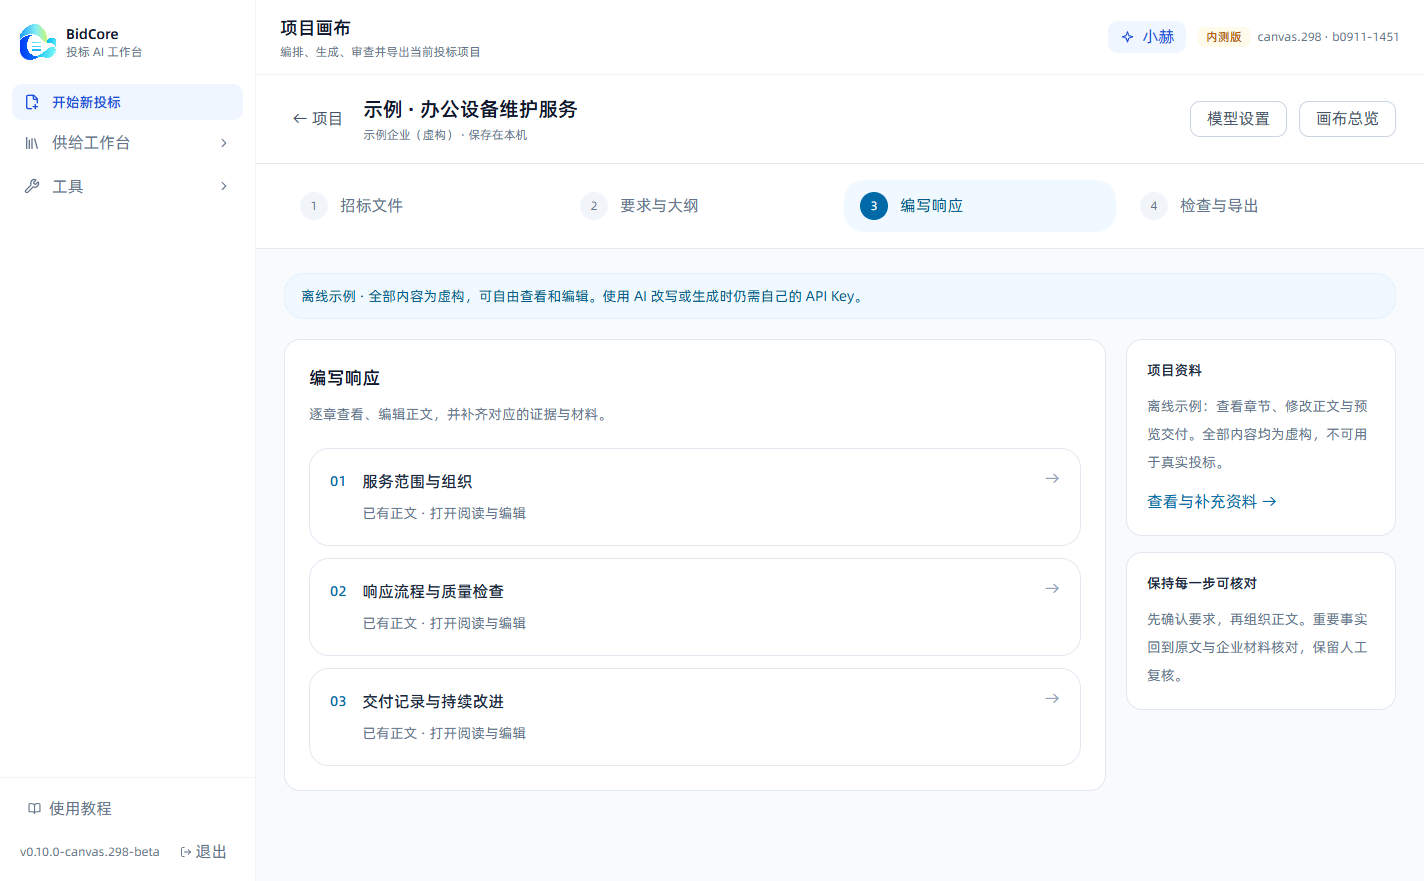
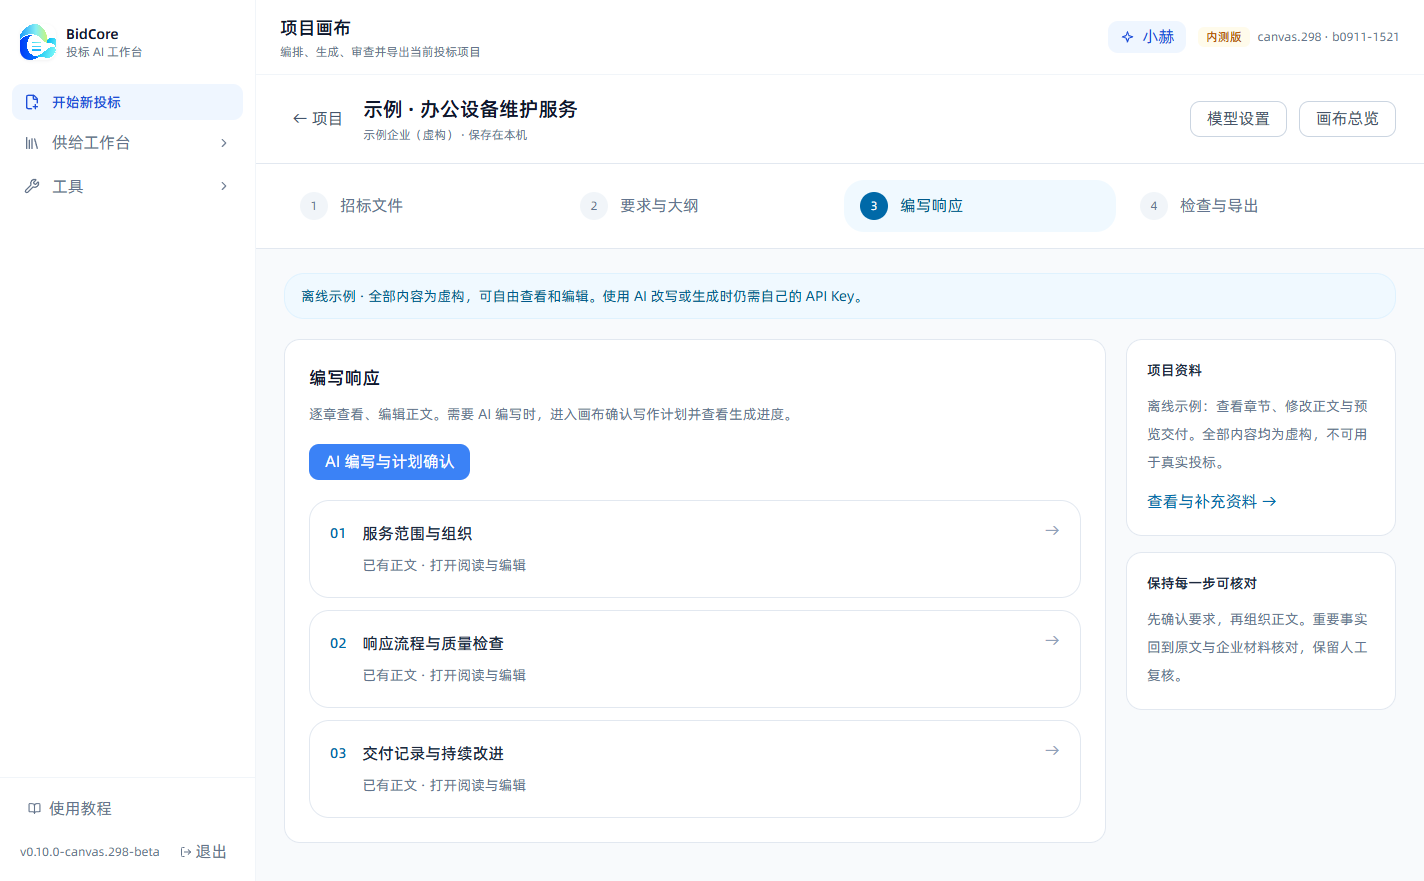
Document draft-only examples and writing workflow

Changed region(s): [[0.2163, 0.4597, 0.5562, 0.9194]]

diff --git a/docs/getting-started.md b/docs/getting-started.md
@@ -4,7 +4,7 @@
 
 ## 第一次使用
 
-想先了解界面，可以在首页打开“离线示例”，直接查看章节和编辑正文。示例不调用 AI，不需要 API Key；内容均为虚构，不能直接用于真实投标。
+想先了解界面，可以在首页打开“离线示例”，直接查看章节和编辑正文。示例不调用 AI，不需要 API Key；内容均为虚构，只能导出带标记的草稿，不能用于真实投标。
 
 1. 打开软件，查看本地数据目录。将备份保存到另一个可靠位置。
 2. 新建项目，选择已有企业或填写企业名称。具体企业事实可后补；正式交付时仍须完整。
@@ -12,6 +12,8 @@
 4. 导入招标文件，检查提取结果，确认要求和目录后再继续编写。
 5. 按提示补齐资质、业绩等资料，检查正文与来源并人工复核。
 6. 导出 Word，检查版式、事实、附件、报价与签章要求。
+
+默认工作台用于阅读文件、查看章节与编辑正文。点击“AI 编写与计划确认”可进入画布，确认大纲和写作计划、查看生成进度；点击“返回工作台”回到章节视图。
 
 ## 升级与备份
 

diff --git a/CHANGELOG.md b/CHANGELOG.md
@@ -6,4 +6,5 @@
 - 整理用户自配 API Key 的本地部署流程。
 - 增加四步项目工作台、简化模型设置和可离线编辑的虚构示例。
 - 增加 Windows 本机凭据保护，分享配置时省略密钥。
+- 修正自动推荐导出的级别传递；虚构示例仅允许导出带标记的草稿。
 - 公开安装包、系统要求和已知限制将在版本验收后公布。
